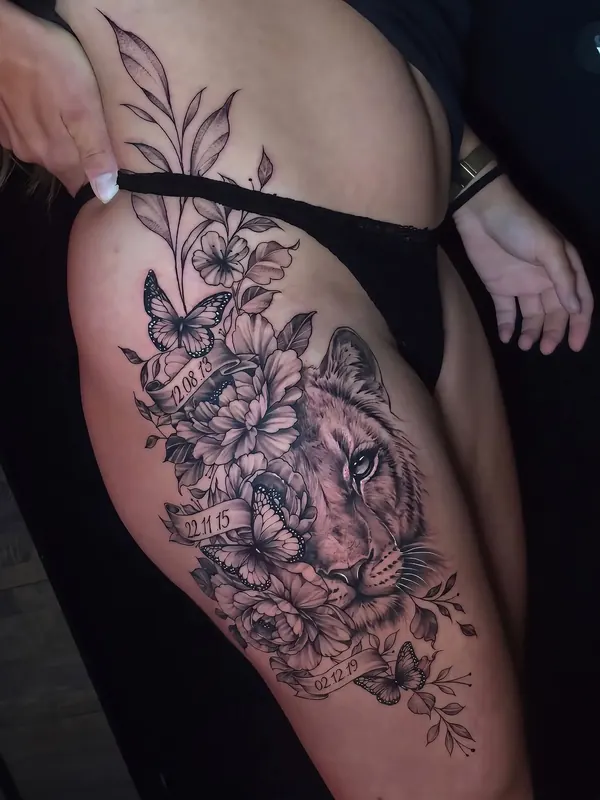
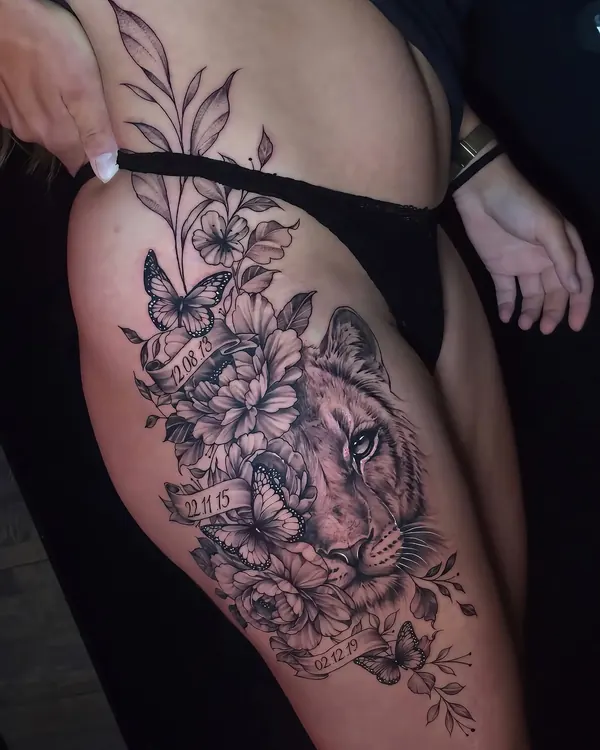
Journey step 04: compact the SMS mock-up for phones
The card was 626 px tall at 390 px wide. Now 465 px: photo cropped to
4:5 and capped at 42% width, bubbles at 12 px with tighter padding,
smaller header and one-line meta, shorter messages, 18 px visual
padding on phones.

Claude-Session: https://claude.ai/code/session_01TnNbz4oAbzFbjoL89qrrif

diff --git a/index.html b/index.html
@@ -612,46 +612,48 @@
   @media (min-width: 900px) { .journey-visual--photo { padding: 24px; } }
   .journey-visual--photo img, .journey-visual--photo video { width: 100%; height: auto; border-radius: 12px; border: 1px solid #2A2420; display: block; background: #0F0D0B; }
   /* iOS Messages (SMS) mock-up in journey step 04 */
+  .journey-visual--sms { padding: 18px; }
+  @media (min-width: 900px) { .journey-visual--sms { padding: 36px; } }
   .sms {
-    width: 100%; max-width: 300px; background: #000; border: 1px solid #2A2420; border-radius: 22px;
-    padding: 0 12px 14px; font-family: Inter, -apple-system, system-ui, sans-serif; color: #fff;
-    display: flex; flex-direction: column; align-items: flex-start; gap: 4px; box-shadow: 0 18px 40px rgba(0,0,0,0.45);
+    width: 100%; max-width: 300px; background: #000; border: 1px solid #2A2420; border-radius: 20px;
+    padding: 0 10px 11px; font-family: Inter, -apple-system, system-ui, sans-serif; color: #fff;
+    display: flex; flex-direction: column; align-items: flex-start; gap: 3px; box-shadow: 0 18px 40px rgba(0,0,0,0.45);
   }
   .sms-head {
     align-self: stretch; display: flex; align-items: center; justify-content: center; position: relative;
-    margin: 0 -12px 10px; padding: 10px 12px 8px; background: #1C1C1E; border-bottom: 1px solid #2C2C2E; border-radius: 22px 22px 0 0;
+    margin: 0 -10px 8px; padding: 7px 10px 6px; background: #1C1C1E; border-bottom: 1px solid #2C2C2E; border-radius: 20px 20px 0 0;
   }
-  .sms-back { position: absolute; left: 14px; top: 50%; transform: translateY(-50%); color: #0A84FF; display: inline-flex; }
-  .journey-visual .sms-back svg { width: 9px; height: 15px; max-width: none; }
+  .sms-back { position: absolute; left: 12px; top: 50%; transform: translateY(-50%); color: #0A84FF; display: inline-flex; }
+  .journey-visual .sms-back svg { width: 8px; height: 13px; max-width: none; }
   .journey-visual .sms-name svg { width: 5px; height: 8px; max-width: none; flex-shrink: 0; }
-  .sms-contact { display: flex; flex-direction: column; align-items: center; gap: 3px; }
+  .sms-contact { display: flex; flex-direction: column; align-items: center; gap: 2px; }
   .sms-avatar {
-    width: 34px; height: 34px; border-radius: 50%; background: linear-gradient(180deg, #A5A5AD, #7C7C84);
-    display: inline-flex; align-items: center; justify-content: center; font-size: 15px; font-weight: 600; color: #fff;
+    width: 26px; height: 26px; border-radius: 50%; background: linear-gradient(180deg, #A5A5AD, #7C7C84);
+    display: inline-flex; align-items: center; justify-content: center; font-size: 12px; font-weight: 600; color: #fff;
   }
-  .sms-name { font-size: 10.5px; font-weight: 500; color: #fff; display: inline-flex; align-items: center; gap: 3px; white-space: nowrap; }
+  .sms-name { font-size: 10px; font-weight: 500; color: #fff; display: inline-flex; align-items: center; gap: 3px; white-space: nowrap; }
   .sms-name svg { color: #8E8E93; }
-  .sms-meta { align-self: center; text-align: center; font-size: 10px; line-height: 1.4; color: #8E8E93; margin-bottom: 4px; }
+  .sms-meta { align-self: center; text-align: center; font-size: 9.5px; line-height: 1.3; color: #8E8E93; margin-bottom: 3px; }
   .sms-msg {
-    position: relative; max-width: 78%; padding: 7px 11px; border-radius: 17px;
-    font-size: 12.5px; line-height: 1.35; letter-spacing: -0.005em; overflow-wrap: anywhere;
+    position: relative; max-width: 86%; padding: 6px 10px; border-radius: 16px;
+    font-size: 12px; line-height: 1.3; letter-spacing: -0.005em; overflow-wrap: anywhere;
   }
   .sms-in { align-self: flex-start; background: #26252A; color: #fff; }
-  .sms-out { align-self: flex-end; background: #34C759; color: #fff; margin-top: 4px; }
+  .sms-out { align-self: flex-end; background: #34C759; color: #fff; margin-top: 3px; }
   .sms-in + .sms-in { margin-top: -1px; }
-  .sms-photo { padding: 0; max-width: 56%; border-radius: 16px; overflow: hidden; background: #26252A; }
+  .sms-photo { padding: 0; max-width: 42%; border-radius: 14px; overflow: hidden; background: #26252A; }
   .sms-photo img { display: block; width: 100%; height: auto; }
   /* bubble tails, iOS style */
-  .sms-tail::before, .sms-tail::after { content: ""; position: absolute; bottom: 0; height: 18px; }
-  .sms-in.sms-tail::before { left: -6px; width: 18px; background: #26252A; border-bottom-right-radius: 15px 13px; }
+  .sms-tail::before, .sms-tail::after { content: ""; position: absolute; bottom: 0; height: 16px; }
+  .sms-in.sms-tail::before { left: -6px; width: 16px; background: #26252A; border-bottom-right-radius: 14px 12px; }
   .sms-in.sms-tail::after { left: -10px; width: 10px; background: #000; border-bottom-right-radius: 10px; }
-  .sms-out.sms-tail::before { right: -6px; width: 18px; background: #34C759; border-bottom-left-radius: 15px 13px; }
+  .sms-out.sms-tail::before { right: -6px; width: 16px; background: #34C759; border-bottom-left-radius: 14px 12px; }
   .sms-out.sms-tail::after { right: -10px; width: 10px; background: #000; border-bottom-left-radius: 10px; }
   .sms-pill {
-    display: block; margin-top: 7px; padding: 5px 10px; border-radius: 999px; background: rgba(255,255,255,0.92);
-    color: #1B7F3B; font-size: 11px; font-weight: 600; text-align: center; letter-spacing: 0;
+    display: block; margin-top: 5px; padding: 4px 8px; border-radius: 999px; background: rgba(255,255,255,0.92);
+    color: #1B7F3B; font-size: 10.5px; font-weight: 600; text-align: center; letter-spacing: 0;
   }
-  .sms-status { align-self: flex-end; font-size: 9.5px; color: #8E8E93; margin: 1px 4px 0 0; }
+  .sms-status { align-self: flex-end; font-size: 9px; color: #8E8E93; margin: 0 4px 0 0; }
   .journey-badges { position: absolute; top: 16px; right: 16px; display: inline-flex; gap: 6px; }
   .journey-badges .brand-badge { position: static; }
 
@@ -1338,16 +1340,16 @@
           <p class="journey-body">We handle the leads our ads bring in, not your regular Instagram DMs. Our team replies within minutes, calls each lead to qualify them, collects the deposit and books them straight into your calendar. You never have to handle any of it again.</p>
           <span class="journey-watermark">04</span>
         </div>
-        <div class="journey-visual">
+        <div class="journey-visual journey-visual--sms">
           <div class="sms" role="img" aria-label="Text conversation: a client sends a reference photo, we reply within minutes, book a consult and send the deposit link">
             <div class="sms-head">
               <span class="sms-back" aria-hidden="true"><svg viewBox="0 0 12 20" width="9" height="15" fill="none" stroke="currentColor" stroke-width="2.4" stroke-linecap="round" stroke-linejoin="round"><path d="M10 2 2 10l8 8"/></svg></span>
               <span class="sms-contact"><span class="sms-avatar" aria-hidden="true">S</span><span class="sms-name">Sarah M.<svg viewBox="0 0 8 12" width="5" height="8" fill="none" stroke="currentColor" stroke-width="1.8" stroke-linecap="round" stroke-linejoin="round"><path d="m1.5 1.5 4.5 4.5-4.5 4.5"/></svg></span></span>
             </div>
-            <div class="sms-meta">Text Message · SMS<br />Today 9:41 AM</div>
-            <div class="sms-msg sms-in sms-photo"><img src="assets/journey/sms-reference.webp" alt="Client's reference photo: a floral thigh tattoo with a lioness and butterflies" width="600" height="800" loading="lazy" decoding="async" /></div>
-            <div class="sms-msg sms-in sms-tail">Hi! Saw your ad. Could you do something like this on my thigh?</div>
-            <div class="sms-msg sms-out sms-tail">Hey Sarah! Yes, we can do that. A piece like this starts at $850. Want a consult slot this week?</div>
+            <div class="sms-meta">Text Message · SMS · Today 9:41 AM</div>
+            <div class="sms-msg sms-in sms-photo"><img src="assets/journey/sms-reference.webp" alt="Client's reference photo: a floral thigh tattoo with a lioness and butterflies" width="600" height="750" loading="lazy" decoding="async" /></div>
+            <div class="sms-msg sms-in sms-tail">Hi! Saw your ad. Could you do something like this?</div>
+            <div class="sms-msg sms-out sms-tail">Hey Sarah! Yes, we can do that. From $850. Free consult this week?</div>
             <div class="sms-msg sms-in sms-tail">Yes! Friday afternoon?</div>
             <div class="sms-msg sms-out sms-tail">Friday 2pm is yours. Deposit secures your slot 👇<span class="sms-pill">Pay deposit · $100</span></div>
             <div class="sms-status">Delivered</div>
